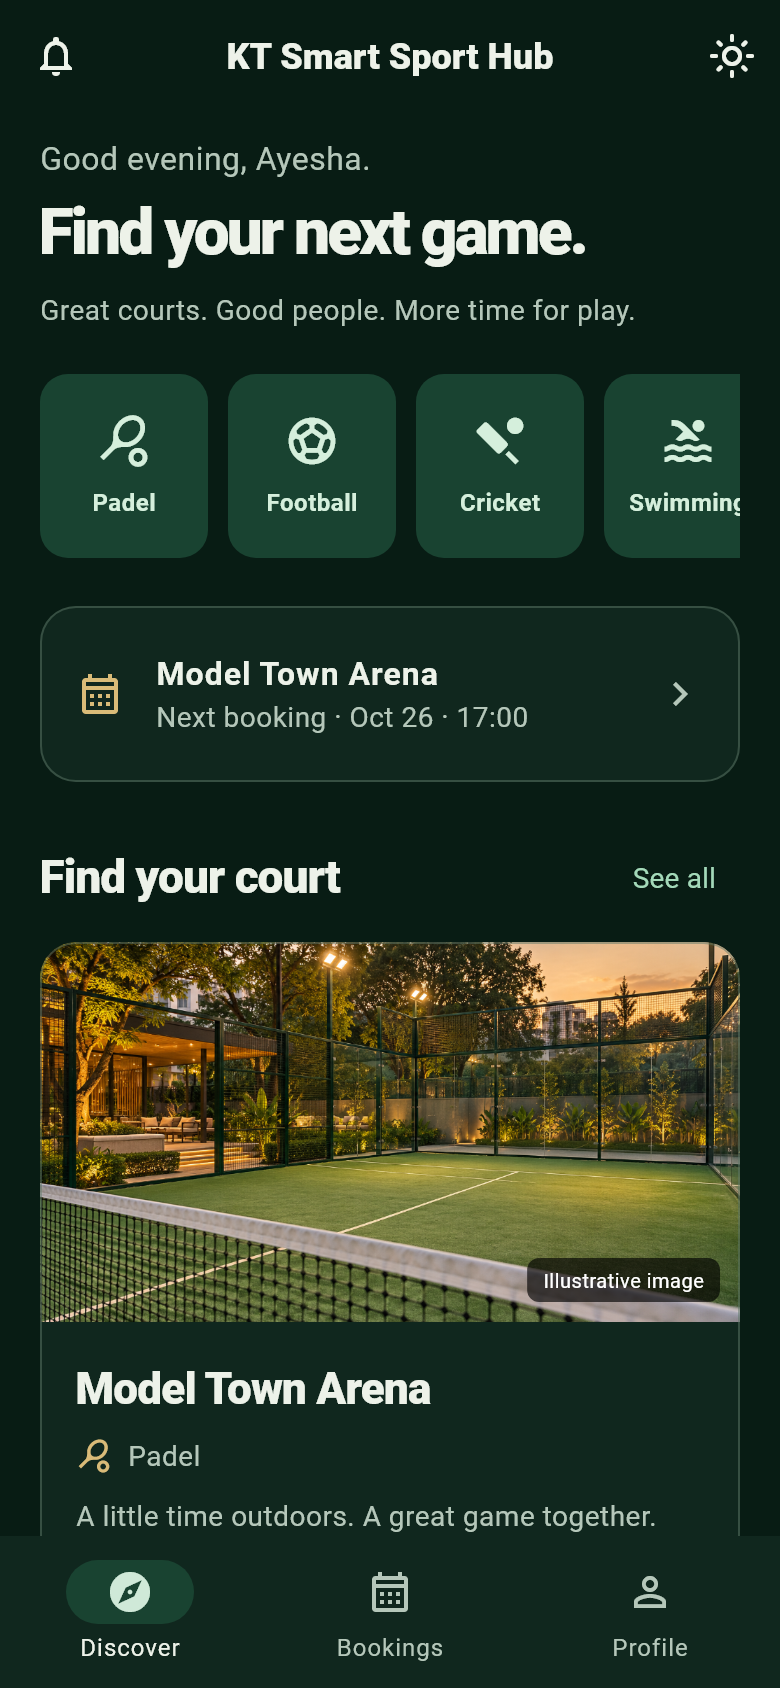
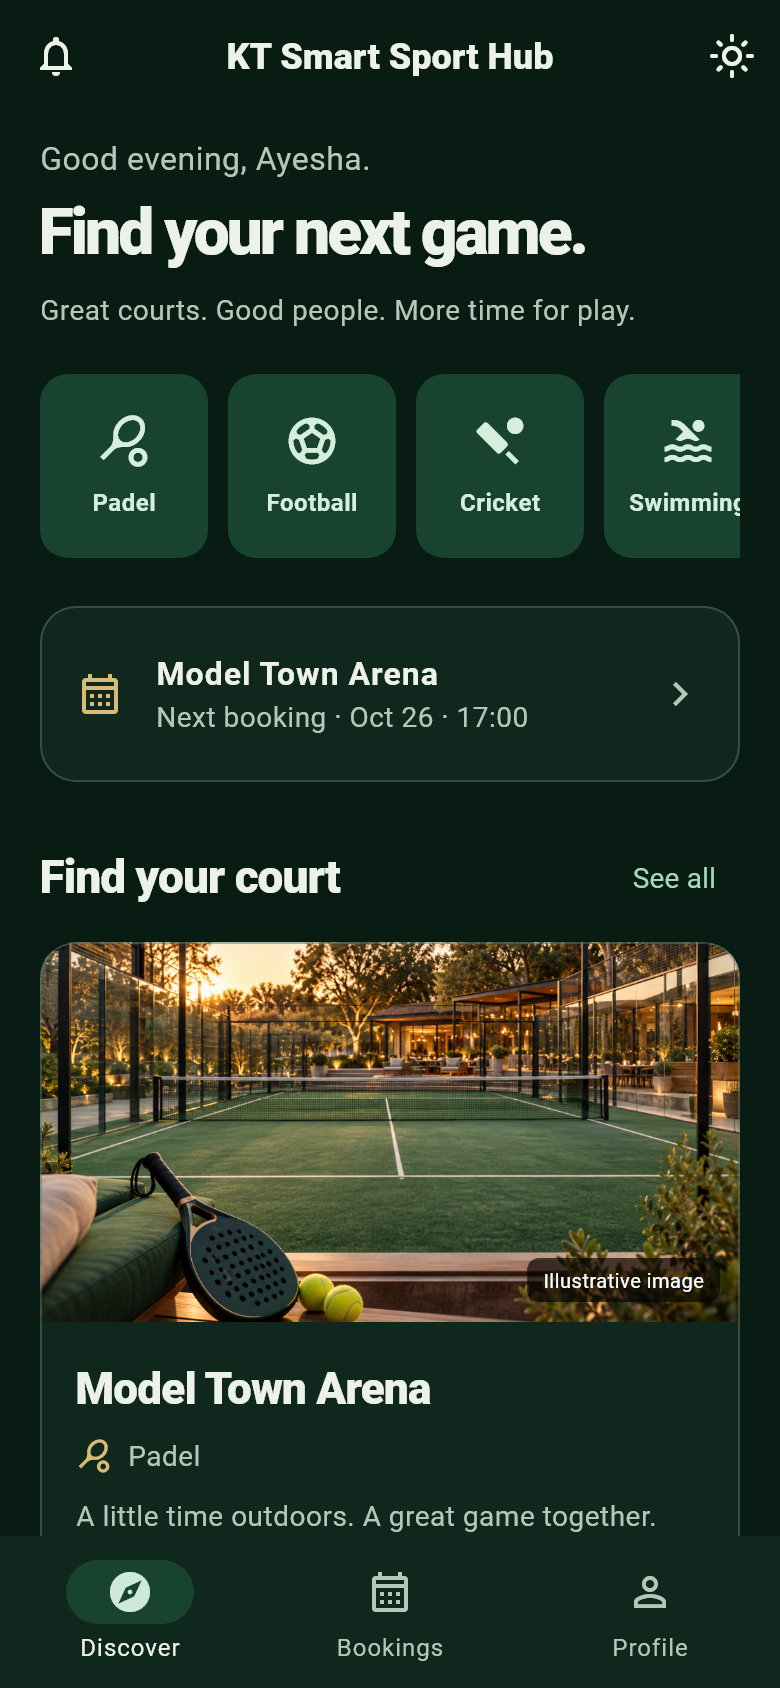
Add complete sports imagery and checkpoint Arena Desk design selection

Changed region(s): [[0.0308, 0.5545, 0.9538, 0.8009]]

diff --git a/frontend_mobile/lib/widgets/clubhouse.dart b/frontend_mobile/lib/widgets/clubhouse.dart
@@ -5,6 +5,24 @@ import '../providers/theme_provider.dart';
 const clubhouseForest = Color(0xFF174C36);
 const clubhouseBrass = Color(0xFFB28C45);
 
+/// Bundled category imagery for the complete current sports catalogue.
+String? sportImageAsset(String sport) {
+  final name = sport.trim().toLowerCase();
+  if (name.contains('basketball')) return 'basketball';
+  if (name.contains('chess')) return 'chess';
+  if (name.contains('cricket')) return 'cricket';
+  if (name.contains('football')) return 'football';
+  if (name.contains('hockey')) return 'hockey';
+  if (name.contains('swim')) return 'swimming';
+  if (name.contains('padel') ||
+      name.contains('paddle') ||
+      name.contains('tennis')) {
+    return 'padel-v2';
+  }
+  if (name.contains('polo')) return 'polo';
+  return null;
+}
+
 String clubPrice(dynamic value) {
   final amount = num.tryParse('$value');
   if (amount == null) return 'Price unavailable';
@@ -35,39 +53,41 @@ class ClubhouseImage extends StatelessWidget {
   final String sport;
   final String? imageUrl;
   final double height;
+  final bool showCaption;
   const ClubhouseImage(
-      {super.key, this.sport = 'Padel', this.imageUrl, this.height = 190});
+      {super.key,
+      this.sport = 'Padel',
+      this.imageUrl,
+      this.height = 190,
+      this.showCaption = true});
 
   @override
   Widget build(BuildContext context) {
-    final name = sport.toLowerCase();
-    final asset = name.contains('football')
-        ? 'football'
-        : name.contains('cricket')
-            ? 'cricket'
-            : name.contains('padel') || name.contains('tennis')
-                ? 'padel'
-                : null;
+    final asset = sportImageAsset(sport);
     Widget fallback() => Stack(fit: StackFit.expand, children: [
           if (asset != null)
             Image.asset('assets/clubhouse/$asset.png',
                 fit: BoxFit.cover,
                 cacheWidth: 1000,
                 excludeFromSemantics: true,
+                frameBuilder: (_, child, frame, __) =>
+                    frame == null ? _SportArtwork(sport: sport) : child,
                 errorBuilder: (_, __, ___) => _SportArtwork(sport: sport))
           else
             _SportArtwork(sport: sport),
-          Positioned(
-              right: 10,
-              bottom: 10,
-              child: Container(
-                padding: const EdgeInsets.symmetric(horizontal: 8, vertical: 4),
-                decoration: BoxDecoration(
-                    color: Colors.black.withValues(alpha: .65),
-                    borderRadius: BorderRadius.circular(6)),
-                child: const Text('Illustrative image',
-                    style: TextStyle(color: Colors.white, fontSize: 10)),
-              )),
+          if (showCaption)
+            Positioned(
+                right: 10,
+                bottom: 10,
+                child: Container(
+                  padding:
+                      const EdgeInsets.symmetric(horizontal: 8, vertical: 4),
+                  decoration: BoxDecoration(
+                      color: Colors.black.withValues(alpha: .65),
+                      borderRadius: BorderRadius.circular(6)),
+                  child: const Text('Illustrative image',
+                      style: TextStyle(color: Colors.white, fontSize: 10)),
+                )),
         ]);
     final uri = Uri.tryParse(imageUrl ?? '');
     final remote = uri != null && ['http', 'https'].contains(uri.scheme);

diff --git a/frontend_mobile/lib/screens/sports_screen.dart b/frontend_mobile/lib/screens/sports_screen.dart
@@ -87,7 +87,10 @@ class _SportsScreenState extends State<SportsScreen>
                               SizedBox(
                                   width: 100,
                                   child: ClubhouseImage(
-                                      sport: sport['name'], height: 110)),
+                                      sport: sport['name'],
+                                      imageUrl: sport['imageUrl'],
+                                      height: 110,
+                                      showCaption: false)),
                               const SizedBox(width: 16),
                               Expanded(
                                   child: Column(

diff --git a/frontend_mobile/test/clubhouse_flow_test.dart b/frontend_mobile/test/clubhouse_flow_test.dart
@@ -222,7 +222,16 @@ void main() {
   Future<void> capture(WidgetTester tester, String name) async {
     if (!const bool.fromEnvironment('RENDER_CLUBHOUSE')) return;
     await tester.runAsync(() async {
-      for (final sport in ['padel', 'football', 'cricket']) {
+      for (final sport in [
+        'padel-v2',
+        'football',
+        'cricket',
+        'basketball',
+        'chess',
+        'hockey',
+        'polo',
+        'swimming'
+      ]) {
         await precacheImage(
             ResizeImage(AssetImage('assets/clubhouse/$sport.png'), width: 1000),
             boundaryKey.currentContext!);

diff --git a/design-concepts/SPORTS_IMAGES.md b/design-concepts/SPORTS_IMAGES.md
@@ -1,0 +1,42 @@
+# Complete sports image set
+
+Generated with the built-in image-generation tool for KT Smart Sport Hub's Clubhouse design. The app now has a matching photograph-style illustration for all eight catalogue sports. Existing Cricket and Football images are retained. Padel uses padel-v2.png; the earlier padel.png is preserved.
+
+## Bundled files
+
+- [basketball.png](../frontend_mobile/assets/clubhouse/basketball.png)
+- [chess.png](../frontend_mobile/assets/clubhouse/chess.png)
+- [cricket.png](../frontend_mobile/assets/clubhouse/cricket.png)
+- [football.png](../frontend_mobile/assets/clubhouse/football.png)
+- [hockey.png](../frontend_mobile/assets/clubhouse/hockey.png)
+- [padel-v2.png](../frontend_mobile/assets/clubhouse/padel-v2.png)
+- [polo.png](../frontend_mobile/assets/clubhouse/polo.png)
+- [swimming.png](../frontend_mobile/assets/clubhouse/swimming.png)
+
+Sports and venue cards use the same sport-specific mapping. A supplied sport or venue image URL still takes priority; bundled illustrations fill missing or failed images. The sport list uses clean thumbnails, while venue banners retain the illustrative-image caption. Future unknown sports retain the generic sport illustration.
+
+## Generation prompts
+
+### basketball
+
+Use case: photorealistic-natural. Asset type: landscape 3:2 in-app sports image for KT Smart Sport Hub, matching the approved Clubhouse design. Primary request: a beautiful outdoor basketball court with a muted forest-green playing surface and accurate warm ivory boundary markings, one regulation hoop with an intact white net as the prominent upper-central subject, an orange basketball resting near the lower center, mature trees and a tasteful modern clubhouse behind. Premium but welcoming Pakistani urban community sports club, warm late-afternoon and early-evening light, mature trees, inviting real materials, restrained forest greens, warm ivory, natural wood and muted brass highlights. High-quality editorial sports photography with plausible equipment geometry and accurate sporting details. Keep the main sporting subject clearly recognizable in the CENTRAL 65% of the frame so this works both as a wide venue banner and a square mobile thumbnail. Detailed photographic textures, balanced exposure with readable shadow detail, refined professional color grading, gentle depth separation. No added text, logos, lettering, watermark, UI, border, montage, purple or blue color cast. This is an illustrative generated scene, not a verified photograph of any real named venue. Full bleed single photograph.
+
+### chess
+
+Use case: photorealistic-natural. Asset type: landscape 3:2 in-app sports image for KT Smart Sport Hub, matching the approved Clubhouse design. Primary request: an elegant club chess table on a shaded outdoor clubhouse terrace, a real standard 8-by-8 dark walnut and ivory chessboard with beautifully carved recognizable wooden chess pieces, white knight and king in clear foreground focus and dark opposing pieces further back, warm brass-toned table lamp and forest-green upholstered chairs, blurred garden in background; focus on the board and pieces rather than a broad empty room. Premium but welcoming Pakistani urban community sports club, warm late-afternoon and early-evening light, mature trees, inviting real materials, restrained forest greens, warm ivory, natural wood and muted brass highlights. High-quality editorial sports photography with plausible equipment geometry and accurate sporting details. Keep the main sporting subject clearly recognizable in the CENTRAL 65% of the frame so this works both as a wide venue banner and a square mobile thumbnail. Detailed photographic textures, balanced exposure with readable shadow detail, refined professional color grading, gentle depth separation. No added text, logos, lettering, watermark, UI, border, montage, purple or blue color cast. This is an illustrative generated scene, not a verified photograph of any real named venue. Full bleed single photograph.
+
+### hockey
+
+Use case: photorealistic-natural. Asset type: landscape 3:2 in-app sports image for KT Smart Sport Hub, matching the approved Clubhouse design. Primary request: a premium outdoor FIELD hockey pitch, natural muted green synthetic turf with correct white markings, a full-size rectangular field hockey goal and taut net in the upper-middle background, two curved-head field hockey sticks and a small white field hockey ball resting diagonally on turf in the central foreground; Pakistani field hockey, NOT ice hockey. Premium but welcoming Pakistani urban community sports club, warm late-afternoon and early-evening light, mature trees, inviting real materials, restrained forest greens, warm ivory, natural wood and muted brass highlights. High-quality editorial sports photography with plausible equipment geometry and accurate sporting details. Keep the main sporting subject clearly recognizable in the CENTRAL 65% of the frame so this works both as a wide venue banner and a square mobile thumbnail. Detailed photographic textures, balanced exposure with readable shadow detail, refined professional color grading, gentle depth separation. No added text, logos, lettering, watermark, UI, border, montage, purple or blue color cast. This is an illustrative generated scene, not a verified photograph of any real named venue. Full bleed single photograph.
+
+### polo
+
+Use case: photorealistic-natural. Asset type: landscape 3:2 in-app sports image for KT Smart Sport Hub, matching the approved Clubhouse design. Primary request: a spacious equestrian polo ground with carefully maintained natural grass, simple white goalposts in the middle distance, two healthy horses with helmeted adult polo riders seen small in the far background, a wooden polo mallet with a long cane shaft and transverse cylindrical head alongside a white polo ball clearly placed on the grass in the central foreground; correct equestrian polo, NOT water polo. Premium but welcoming Pakistani urban community sports club, warm late-afternoon and early-evening light, mature trees, inviting real materials, restrained forest greens, warm ivory, natural wood and muted brass highlights. High-quality editorial sports photography with plausible equipment geometry and accurate sporting details. Keep the main sporting subject clearly recognizable in the CENTRAL 65% of the frame so this works both as a wide venue banner and a square mobile thumbnail. Detailed photographic textures, balanced exposure with readable shadow detail, refined professional color grading, gentle depth separation. No added text, logos, lettering, watermark, UI, border, montage, purple or blue color cast. This is an illustrative generated scene, not a verified photograph of any real named venue. Full bleed single photograph.
+
+### swimming
+
+Use case: photorealistic-natural. Asset type: landscape 3:2 in-app sports image for KT Smart Sport Hub, matching the approved Clubhouse design. Primary request: an inviting outdoor lap swimming pool at a contemporary sports club, clean muted green-turquoise water with realistic reflections, parallel lane ropes and cream stone coping, stainless steel pool ladder as the prominent central foreground detail, mature trees and cream modern clubhouse surrounding the pool; empty and peaceful with no swimmers. Premium but welcoming Pakistani urban community sports club, warm late-afternoon and early-evening light, mature trees, inviting real materials, restrained forest greens, warm ivory, natural wood and muted brass highlights. High-quality editorial sports photography with plausible equipment geometry and accurate sporting details. Keep the main sporting subject clearly recognizable in the CENTRAL 65% of the frame so this works both as a wide venue banner and a square mobile thumbnail. Detailed photographic textures, balanced exposure with readable shadow detail, refined professional color grading, gentle depth separation. No added text, logos, lettering, watermark, UI, border, montage, purple or blue color cast. This is an illustrative generated scene, not a verified photograph of any real named venue. Full bleed single photograph.
+
+### padel-v2
+
+Use case: photorealistic-natural. Asset type: landscape 3:2 in-app sports image for KT Smart Sport Hub, matching the approved Clubhouse design. Primary request: a welcoming modern padel club with a forest-green padel court and realistic glass enclosure, correct low central net and ivory service lines, a recognizable perforated solid-face padel racket leaning beside two yellow padel balls at the central foreground edge; slightly elevated view shows the court beyond and warm clubhouse terraces. Premium but welcoming Pakistani urban community sports club, warm late-afternoon and early-evening light, mature trees, inviting real materials, restrained forest greens, warm ivory, natural wood and muted brass highlights. High-quality editorial sports photography with plausible equipment geometry and accurate sporting details. Keep the main sporting subject clearly recognizable in the CENTRAL 65% of the frame so this works both as a wide venue banner and a square mobile thumbnail. Detailed photographic textures, balanced exposure with readable shadow detail, refined professional color grading, gentle depth separation. No added text, logos, lettering, watermark, UI, border, montage, purple or blue color cast. This is an illustrative generated scene, not a verified photograph of any real named venue. Full bleed single photograph.

diff --git a/design-concepts/admin/README.md b/design-concepts/admin/README.md
@@ -1,0 +1,23 @@
+# Admin mobile concepts
+
+Selected direction: **Arena Desk** (the second concept). The selection is approved for the next implementation pass; this checkpoint contains the renders only.
+
+Project workflow: continue committing and pushing this project to the existing `New-UI` branch in `HJM-10/KT_SportM`. Do not create a new branch unless the user asks for one.
+
+Generated with the built-in image-generation tool. These are review concepts, not app changes. All figures are sample data. Court subdivisions, timelines, maintenance states and graphical court plans are proposed features requiring implementation and data support; their appearance here does not establish that the current API provides them.
+
+## Clubhouse Control
+
+[View render](clubhouse-control.png)
+
+Final generation prompt:
+
+Use case: ui-mockup. Create ONE premium high-resolution landscape design proposal board for the Flutter ANDROID MOBILE admin interface of "KT Smart Sport Hub", sports facility management project in Pakistan. Concept title "Clubhouse Control" at top with small subtitle "ADMIN MOBILE CONCEPT • SAMPLE DATA". Show FOUR COMPLETE upright mobile app screens side by side, straight-on front view, no tilt, no device hardware, no desktop sidebar: "Overview · Light", "Overview · Dark", "Courts & venues · Light", "Courts & venues · Dark". Identical content and layout within light/dark pairs. Brand heading EXACT "KT Smart Sport Hub" centered in the top app bar. Practical implementable Flutter layouts, visible bottom navigation Overview / Bookings / Courts / More, realistic 48px touch areas, readable concise text, clear visual hierarchy, no tiny text, all content contained in phones with no truncation or cropping. Clubhouse family palette: warm cream #F5F3E9, forest #174C36, brass #B28C45, deep pine #081C14 dark mode, high-contrast ivory and soft mint text in dark mode. An elegant operations-first admin interface. Dashboard has typographic date and welcome header, slim two-stat strip for Today's bookings 24 and Collected PKR 48,000, a prominent QR Check-in action, a Next arrivals compact list with times and payment status, and a small attention-needed banner for 3 pending payments. A horizontal photo-led sport selector uses attractive realistic close-up photographs of basketball, wooden chess pieces, padel racket, cricket bat, field hockey sticks, swimming pool; no generic Material sport glyphs. Its Venues screen shows refined photo-led facility rows with subordinate Padel Court 01 and Court 02, distinct actual-image thumbnails for each, explicit Available / In use / Maintenance badges, Manage action. Strong restrained typography, elegant horizontal dividers, luxurious cream surfaces, forest green buttons, small brass accents. Icons are exquisitely drawn thin consistent custom outline navigation symbols: calendar with event dot, isometric court plan, ticket scan frame, small user silhouette. Prefer clear text labels and content images over decorative symbols. Use Pakistani example venue "Model Town Arena" and currency PKR, all numbers sample only. Include subtle top-level access to bookings, venues, sports catalogue, users, tournaments, events, fixtures, payments, check-in and reports through More, without cramming every module onto overview. Polished sport photography is integral to the interface, not a decorative wallpaper; custom line symbols sparingly and consistently at one stroke weight, avoid emoji, default Material icons, giant colored icon circles, rainbow tiles, purple, blue or lime accents, excessive cards, decorative charts or AI blobs. Spacious neutral cream presentation backdrop and restrained outside labels only. Footer board annotation: "Concept only — sample data; court-level controls proposed." This is a design exploration, not a claim of implemented features. Render fully designed screens, not text wireframes.
+
+## Arena Desk
+
+[View render](arena-desk.png)
+
+Final generation prompt:
+
+Use case: ui-mockup. Create ONE premium high-resolution landscape design proposal board for the Flutter ANDROID MOBILE admin interface of "KT Smart Sport Hub", sports facility management project in Pakistan. Concept title "Arena Desk" at top with small subtitle "ADMIN MOBILE CONCEPT • SAMPLE DATA". Show FOUR COMPLETE upright mobile app screens side by side, straight-on front view, no tilt, no device hardware, no desktop sidebar: "Overview · Light", "Overview · Dark", "Courts & venues · Light", "Courts & venues · Dark". Identical content and layout within light/dark pairs. Brand heading EXACT "KT Smart Sport Hub" centered in the top app bar. Practical implementable Flutter layouts, visible bottom navigation Overview / Bookings / Courts / More, realistic 48px touch areas, readable concise text, clear visual hierarchy, no tiny text, all content contained in phones with no truncation or cropping. Clubhouse family palette: warm cream #F5F3E9, forest #174C36, brass #B28C45, deep pine #081C14 dark mode, high-contrast ivory and soft mint text in dark mode. A distinctly different booking-first admin interface inspired by premium sports scheduling and editorial wayfinding. Dashboard opens with a large live court-schedule timeline: horizontal time labels 4 PM, 5 PM, 6 PM and rows Court 01, Court 02, Pool. Muted forest-green reserved blocks labelled with player names; cream empty intervals; discreet brass awaiting-payment block; clear legend. Compact row beneath with 24 Bookings and PKR 48,000 Collected. Strong Add walk-in action and a queue of next check-ins. Its Courts screen uses two beautifully composed facility photo panels with overlays Padel Court 01 and Basketball Court 02, distinct small plan-view court schematic beneath each with labelled status, Manage sessions action, and useful maintenance status. Refined custom outline navigation symbols and beautifully photographed sport objects replace generic colorful sport icon tiles. Highly legible modern sans-serif with strong condensed numeric accents; layered off-white editorial panels and deep pine nighttime surfaces. The layout must visibly differ from an icon grid and from an editorial list dashboard. Use Pakistani example venue "Model Town Arena" and currency PKR, all numbers sample only. Include subtle top-level access to bookings, venues, sports catalogue, users, tournaments, events, fixtures, payments, check-in and reports through More, without cramming every module onto overview. Polished sport photography is integral to the interface, not a decorative wallpaper; custom line symbols sparingly and consistently at one stroke weight, avoid emoji, default Material icons, giant colored icon circles, rainbow tiles, purple, blue or lime accents, excessive cards, decorative charts or AI blobs. Spacious neutral cream presentation backdrop and restrained outside labels only. Footer board annotation: "Concept only — sample data; court-level controls proposed." This is a design exploration, not a claim of implemented features. Render fully designed screens, not text wireframes.

diff --git a/design-concepts/README.md b/design-concepts/README.md
@@ -13,6 +13,8 @@ The approved direction is forest green, warm cream, muted brass, and deep pine d
 
 ## Image assets and provenance
 
+The completed catalogue now includes all eight sports. See [the full sports image set and generation prompts](SPORTS_IMAGES.md) for the latest assets, including the refreshed Padel image.
+
 Generated with the built-in image-generation tool, then copied into the Flutter asset bundle:
 
 - `../frontend_mobile/assets/clubhouse/padel.png`
